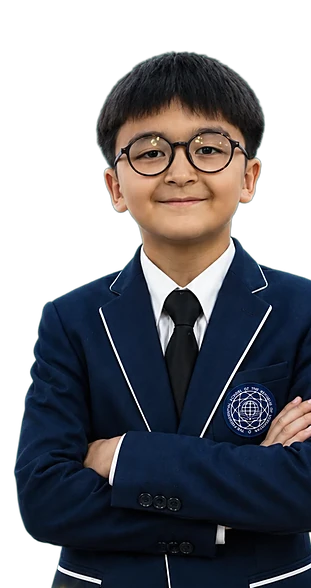
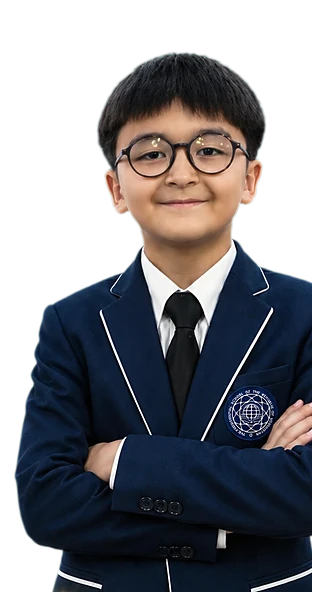
Hero: bolalar rasmlari retush qilindi
Har bir poster boshqacha rang berilgan edi. Endi skript:
- oq ko'ylak bo'yicha rang balansini tekislaydi;
- teri rangi va yorqinligini guruhning o'rtacha tusiga yaqinlashtiradi
  (Muhammadiso, Xamid, Zuhriddinning qizg'ish-to'q sariq tusi ketdi);
- terini yengil silliqlaydi, ko'z, qosh, lablar o'tkir qoladi;
- chetni bir piksel ichkariga tortib, sochlar atrofidagi yorug' hoshiyani olib tashlaydi.

diff --git a/src/data/hero-cutouts.ts b/src/data/hero-cutouts.ts
@@ -5,15 +5,15 @@ export const HERO_CUTOUTS = {
   height: 884,
   sizes: [1000, 2000],
   kids: [
-    { x: 0.0, y: 35.541, w: 17.878, h: 64.459 },
-    { x: 5.972, y: 33.262, w: 20.117, h: 66.738 },
-    { x: 14.664, y: 31.593, w: 20.075, h: 68.407 },
-    { x: 24.298, y: 30.545, w: 19.716, h: 69.455 },
-    { x: 31.511, y: 29.443, w: 23.619, h: 70.557 },
-    { x: 43.816, y: 25.339, w: 23.038, h: 74.661 },
-    { x: 53.5, y: 27.93, w: 23.028, h: 72.07 },
-    { x: 63.893, y: 24.632, w: 20.844, h: 75.368 },
-    { x: 73.566, y: 30.317, w: 19.636, h: 69.683 },
-    { x: 84.457, y: 33.111, w: 15.543, h: 66.561 },
+    { x: 0.0, y: 35.341, w: 18.018, h: 64.659 },
+    { x: 5.891, y: 33.169, w: 20.273, h: 66.831 },
+    { x: 14.524, y: 31.493, w: 20.329, h: 68.507 },
+    { x: 24.203, y: 30.38, w: 19.885, h: 69.62 },
+    { x: 31.372, y: 29.343, w: 23.862, h: 70.657 },
+    { x: 43.659, y: 25.184, w: 23.368, h: 74.816 },
+    { x: 53.39, y: 27.816, w: 23.251, h: 72.184 },
+    { x: 63.754, y: 24.432, w: 21.124, h: 75.568 },
+    { x: 73.43, y: 30.086, w: 19.893, h: 69.914 },
+    { x: 84.388, y: 32.995, w: 15.612, h: 67.005 },
   ],
 } as const

diff --git a/scripts/cutout.py b/scripts/cutout.py
@@ -103,13 +103,88 @@ def head(rgba: np.ndarray) -> tuple[int, float, float]:
     return top, width, float(xs.mean()) if len(xs) else float(cols.mean())
 
 
+def to_ycc(rgb: np.ndarray) -> np.ndarray:
+    r, g, b = rgb[..., 0], rgb[..., 1], rgb[..., 2]
+    return np.stack(
+        [0.299 * r + 0.587 * g + 0.114 * b, 128 - 0.168736 * r - 0.331264 * g + 0.5 * b, 128 + 0.5 * r - 0.418688 * g - 0.081312 * b],
+        -1,
+    )
+
+
+def from_ycc(ycc: np.ndarray) -> np.ndarray:
+    y, cb, cr = ycc[..., 0], ycc[..., 1] - 128, ycc[..., 2] - 128
+    return np.stack([y + 1.402 * cr, y - 0.344136 * cb - 0.714136 * cr, y + 1.772 * cb], -1)
+
+
+def white_balance(rgba: np.ndarray) -> np.ndarray:
+    """Every poster was graded differently. The white shirts should be white: whatever tint they carry comes off the
+    whole child (gently, and never more than 10 % per channel)."""
+    rgb = rgba[..., :3].astype(np.float32)
+    ycc = to_ycc(rgb)
+    shirt = (rgba[..., 3] > 250) & (ycc[..., 0] > 170) & (np.abs(ycc[..., 1] - 128) < 14) & (np.abs(ycc[..., 2] - 128) < 14)
+    if shirt.sum() < 500:
+        return rgba
+    mean = rgb[shirt].mean(0)
+    gain = np.clip(mean.mean() / mean, 0.9, 1.1) ** 0.8
+    rgba[..., :3] = np.clip(rgb * gain, 0, 255).astype(np.uint8)
+    return rgba
+
+
+def skin(rgba: np.ndarray) -> np.ndarray:
+    """A soft 0..1 mask of the skin (face, neck, hands), from the classic YCbCr skin range."""
+    ycc = to_ycc(rgba[..., :3].astype(np.float32))
+    y, cb, cr = ycc[..., 0], ycc[..., 1], ycc[..., 2]
+    hard = (rgba[..., 3] > 200) & (y > 55) & (cb > 77) & (cb < 130) & (cr > 133) & (cr < 195)
+    hard = ndimage.binary_opening(hard, iterations=2)
+    # Whole patches, no holes: flushed cheeks, eyes and lips are corrected together with the skin around them, or the
+    # change in tone would leave them as blotches.
+    hard = ndimage.binary_fill_holes(ndimage.binary_closing(hard, iterations=8))
+    return np.asarray(Image.fromarray((hard * 255).astype(np.uint8)).filter(ImageFilter.GaussianBlur(4)), np.float32) / 255
+
+
+def retouch(rgba: np.ndarray, mask: np.ndarray, own: np.ndarray, target: np.ndarray) -> np.ndarray:
+    """Brings this child's skin towards the group's tone and brightness, then smooths it lightly. Only the skin is
+    touched: uniforms, hair, eyes and lips keep their own colour and texture."""
+    rgb = rgba[..., :3].astype(np.float32)
+    ycc = to_ycc(rgb)
+    m = mask[..., None]
+    gain = np.clip(target[0] / own[0], 0.88, 1.15) ** 0.75
+    shift = (target[1:] - own[1:]) * 0.7
+    tuned = ycc.copy()
+    tuned[..., 0] *= gain
+    tuned[..., 1:] += shift
+    rgb = rgb + m * (from_ycc(tuned) - rgb)
+    # Smoothing: a blur blended in only where the skin is even, so the eyes, brows and lips stay sharp.
+    blur = np.asarray(Image.fromarray(np.clip(rgb, 0, 255).astype(np.uint8)).filter(ImageFilter.GaussianBlur(2.2)), np.float32)
+    grad = np.asarray(Image.fromarray(np.clip(rgb, 0, 255).astype(np.uint8)).convert("L").filter(ImageFilter.FIND_EDGES), np.float32)
+    even = np.clip(1 - grad / 40, 0, 1)[..., None]
+    rgb = rgb + m * even * 0.4 * (blur - rgb)
+    rgba[..., :3] = np.clip(rgb, 0, 255).astype(np.uint8)
+    return rgba
+
+
+def clean_edge(rgba: np.ndarray) -> np.ndarray:
+    """Pulls the outline in by a pixel and softens it: no light fringe from the posters' glow around hair and shoulders."""
+    a = Image.fromarray(rgba[..., 3]).filter(ImageFilter.MinFilter(3)).filter(ImageFilter.GaussianBlur(0.8))
+    rgba[..., 3] = np.minimum(rgba[..., 3], np.asarray(a))
+    return rgba
+
+
 def main() -> None:
     cache = Path(sys.argv[1]) if len(sys.argv) > 1 else None
     OUT.mkdir(parents=True, exist_ok=True)
     n = len(ROW)
+    kids = [clean_edge(white_balance(despill(cut_out(name, box, cache)))) for name, box in ROW]
+    masks = [skin(rgba) for rgba in kids]
+    tones = []
+    for rgba, mask in zip(kids, masks):
+        ycc = to_ycc(rgba[..., :3].astype(np.float32))
+        tones.append((ycc * mask[..., None]).sum((0, 1)) / mask.sum())
+    # The group's tone: the median child, a touch brighter so faces read well on the dark theme too.
+    target = np.median(tones, 0) * np.array([1.04, 1, 1])
     layers = []
     for i, (name, box) in enumerate(ROW):
-        rgba = despill(cut_out(name, box, cache))
+        rgba = retouch(kids[i], masks[i], tones[i], target)
         top, width, cx = head(rgba)
         k = HEAD / width
         h, w = rgba.shape[:2]
